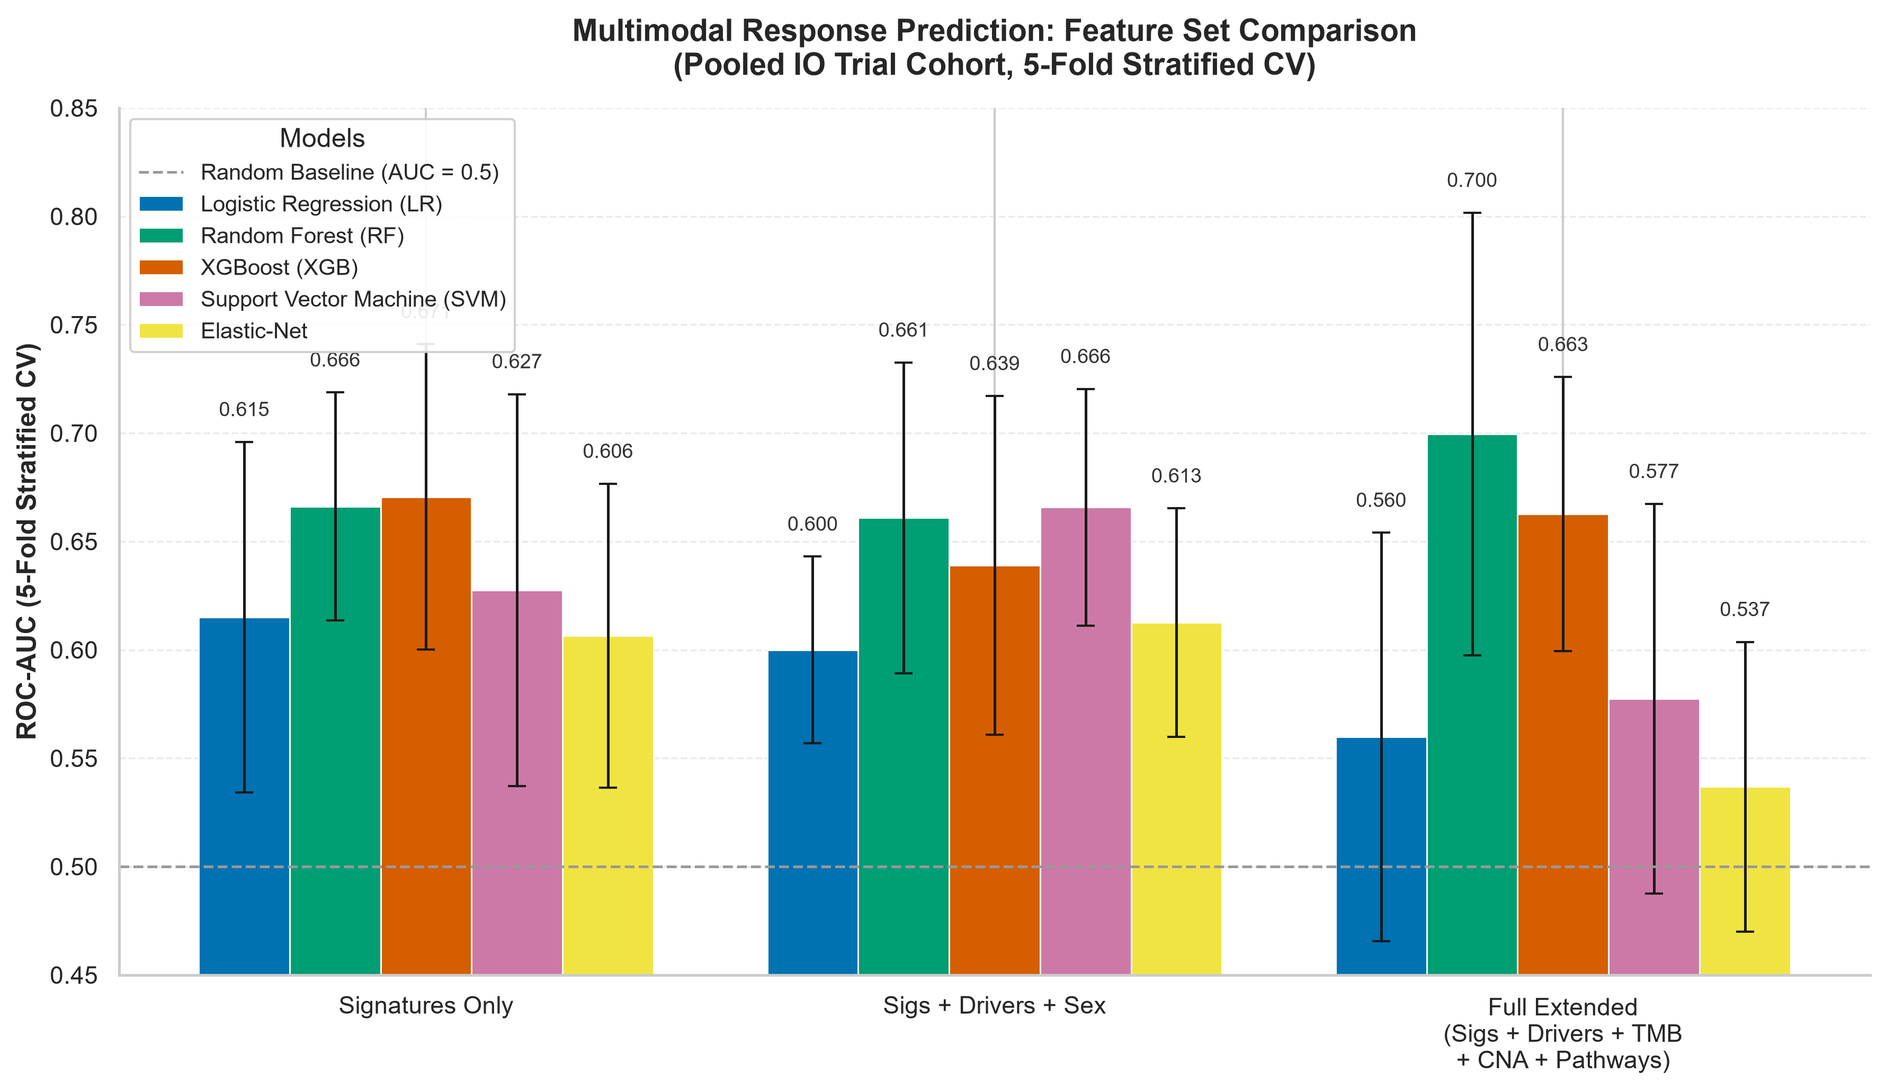
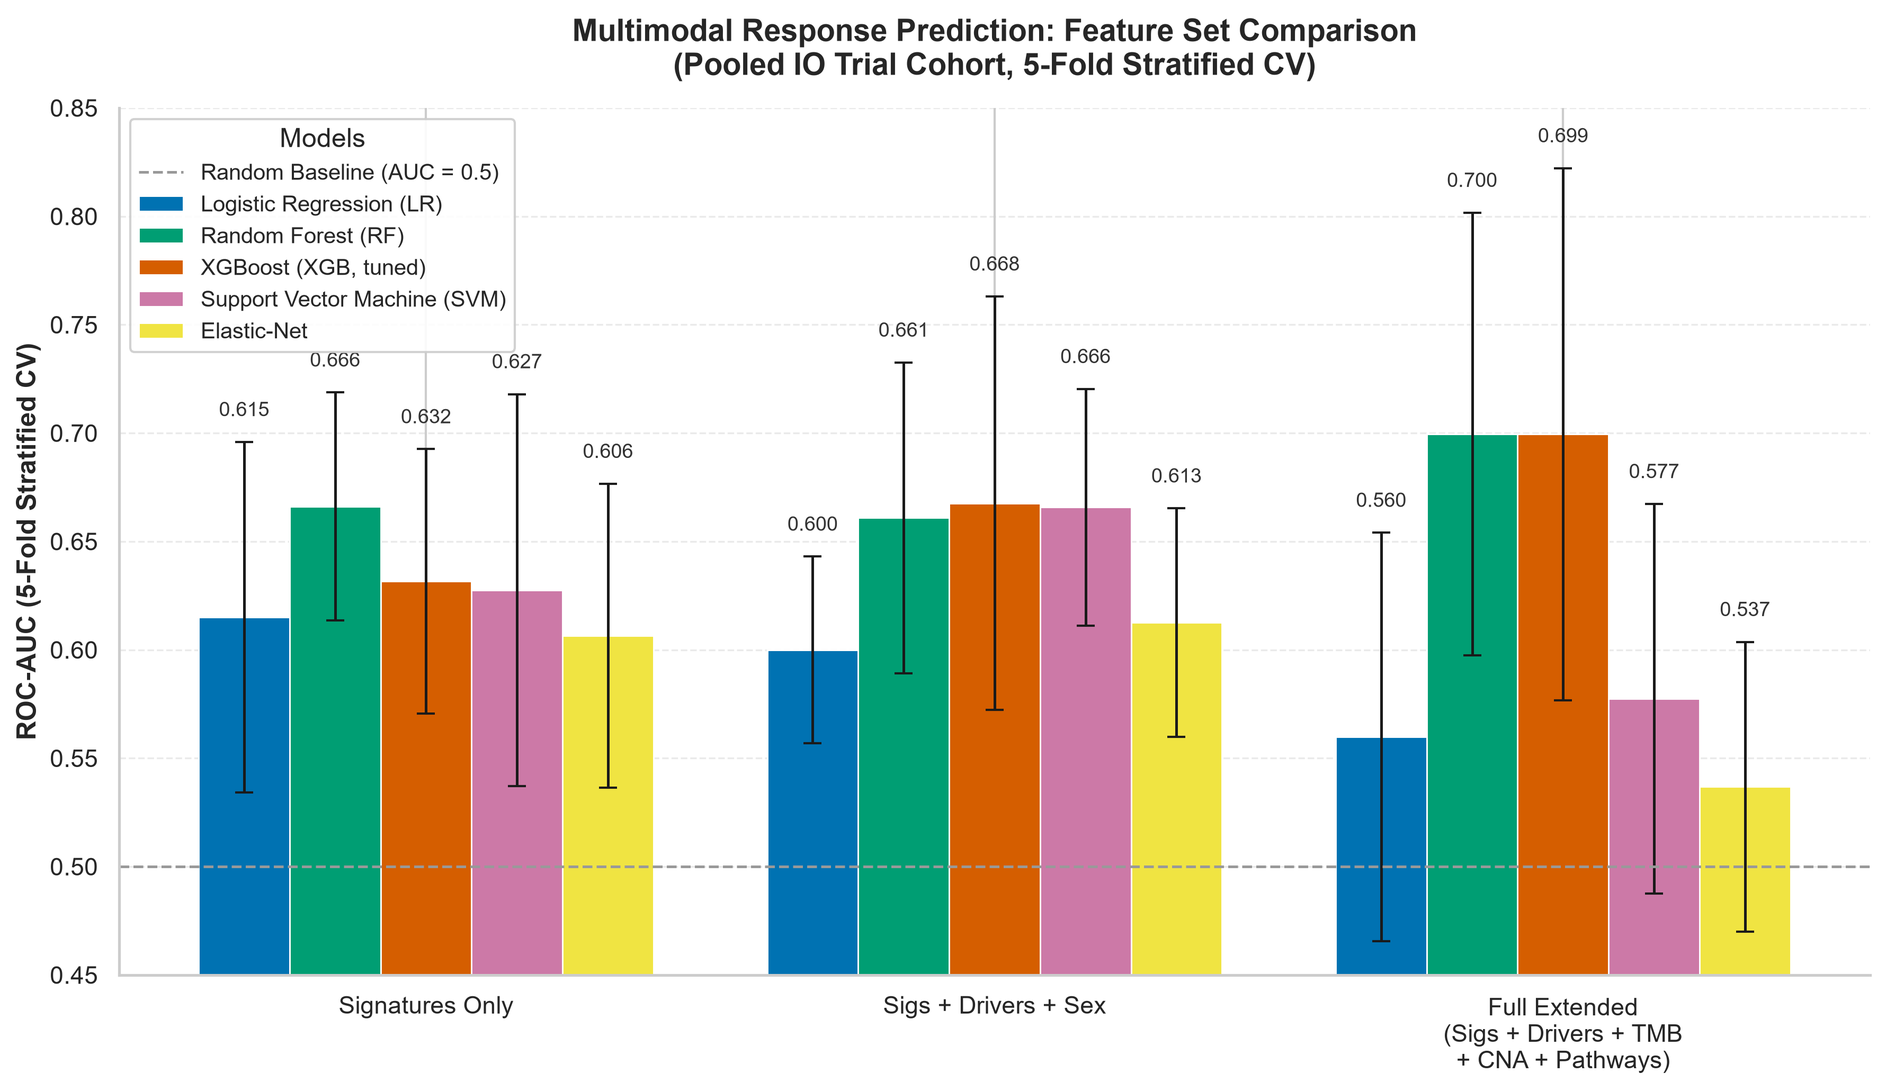
perf(models): parallelize q1 benchmark pipeline

diff --git a/q1-response-predictor/scripts/biomarkers/run_extended_biomarkers.py b/q1-response-predictor/scripts/biomarkers/run_extended_biomarkers.py
@@ -2,6 +2,7 @@ import os
 import sys
 import shutil
 import json
+import time
 import urllib.request
 import numpy as np
 import pandas as pd
@@ -79,6 +80,22 @@ def load_processed_mutations(mutations_file: Path, target_genes: list, sample_id
             
     df_mut = (df_mut[target_genes] > 0).astype(int)
     return df_mut.reindex(sample_ids, fill_value=0)
+
+def evaluate_auc_cv(model, X, y, cv, label):
+    """
+    Evaluate one feature set with serial outer CV and parallelized inner model search.
+    """
+    start = time.perf_counter()
+    print(f"    - {label}...", flush=True)
+    scores = cross_val_score(model, X, y, cv=cv, scoring='roc_auc', n_jobs=None)
+    elapsed = time.perf_counter() - start
+    print(
+        f"      AUC = {scores.mean():.3f} (+/-{scores.std():.3f}); "
+        f"folds = [{', '.join(f'{score:.3f}' for score in scores)}]; "
+        f"{elapsed:.1f}s",
+        flush=True,
+    )
+    return scores
 
 def main():
     print("==================================================")
@@ -484,27 +501,33 @@ def main():
     models = {
         'Logistic Regression (LR)': GridSearchCV(
             LogisticRegression(solver='liblinear', l1_ratio=1.0, random_state=42, max_iter=1000),
-            param_grid={'C': [0.01, 0.1, 1, 10, 100]}, cv=3, scoring='roc_auc'
+            param_grid={'C': [0.01, 0.1, 1, 10, 100]}, cv=3, scoring='roc_auc', n_jobs=-1
         ),
         'Random Forest (RF)': GridSearchCV(
-            RandomForestClassifier(random_state=42),
+            RandomForestClassifier(random_state=42, n_jobs=-1),
             param_grid={'n_estimators': [50, 100, 200], 'max_depth': [3, 5, 10, None], 'min_samples_leaf': [1, 2, 4]},
-            cv=3, scoring='roc_auc'
+            cv=3, scoring='roc_auc', n_jobs=-1
         ),
-        'XGBoost (XGB)': GridSearchCV(
-            XGBClassifier(random_state=42, use_label_encoder=False, eval_metric='logloss'),
-            param_grid={'n_estimators': [50, 100, 150], 'max_depth': [3, 5, 7], 'learning_rate': [0.01, 0.05, 0.1, 0.2]},
-            cv=3, scoring='roc_auc'
+        'XGBoost (XGB, tuned)': GridSearchCV(
+            XGBClassifier(random_state=42, eval_metric='logloss', n_jobs=-1),
+            param_grid={
+                'n_estimators': [50, 100, 200],
+                'max_depth': [2, 3],
+                'learning_rate': [0.03, 0.05, 0.1],
+                'subsample': [0.8, 1.0],
+                'colsample_bytree': [0.8, 1.0],
+            },
+            cv=3, scoring='roc_auc', n_jobs=-1
         ),
         'Support Vector Machine (SVM)': GridSearchCV(
-            SVC(probability=True, random_state=42),
+            SVC(probability=False, random_state=42),
             param_grid={'C': [0.01, 0.1, 1, 10], 'kernel': ['linear', 'rbf']},
-            cv=3, scoring='roc_auc'
+            cv=3, scoring='roc_auc', n_jobs=-1
         ),
         'Elastic-Net': GridSearchCV(
-            LogisticRegression(solver='saga', random_state=42, max_iter=5000),
+            LogisticRegression(solver='saga', random_state=42, max_iter=20000, tol=1e-3),
             param_grid={'C': [0.01, 0.1, 1, 10], 'l1_ratio': [0.1, 0.5, 0.9]},
-            cv=3, scoring='roc_auc'
+            cv=3, scoring='roc_auc', n_jobs=-1
         )
     }
     
@@ -512,25 +535,26 @@ def main():
     plot_data = []  # Store raw scores for visualisation
     
     for model_name, model in models.items():
-        print(f"  > Evaluating {model_name}...")
+        model_start = time.perf_counter()
+        print(f"  > Evaluating {model_name}...", flush=True)
         # 1. Base Model (Signatures only)
         X_base = df_features_clean[sig_features].values
-        scores_base = cross_val_score(model, X_base, y, cv=cv, scoring='roc_auc')
+        scores_base = evaluate_auc_cv(model, X_base, y, cv, "Signatures only")
         
         # 2. Driver Mutation Model (Sigs + Drivers + Sex)
         driver_cols = sig_features + ['mut_BRAF', 'mut_NRAS', 'mut_NF1', 'Sex_Male']
         X_drivers = df_features_clean[driver_cols].values
-        scores_drivers = cross_val_score(model, X_drivers, y, cv=cv, scoring='roc_auc')
+        scores_drivers = evaluate_auc_cv(model, X_drivers, y, cv, "Signatures + drivers + sex")
         
         # 3. Full Extended Model (All Features including TMB & CNA & pathway mutations)
         X_full = df_features_clean.values
-        scores_full = cross_val_score(model, X_full, y, cv=cv, scoring='roc_auc')
+        scores_full = evaluate_auc_cv(model, X_full, y, cv, "Full extended")
         
         model_results.append({
             'Model': model_name,
-            'Base AUC': f"{scores_base.mean():.3f} (±{scores_base.std():.3f})",
-            'Sigs+Drivers+Sex AUC': f"{scores_drivers.mean():.3f} (±{scores_drivers.std():.3f})",
-            'Full Extended AUC': f"{scores_full.mean():.3f} (±{scores_full.std():.3f})"
+            'Base AUC': f"{scores_base.mean():.3f} (+/-{scores_base.std():.3f})",
+            'Sigs+Drivers+Sex AUC': f"{scores_drivers.mean():.3f} (+/-{scores_drivers.std():.3f})",
+            'Full Extended AUC': f"{scores_full.mean():.3f} (+/-{scores_full.std():.3f})"
         })
         
         plot_data.append({
@@ -539,6 +563,7 @@ def main():
             'drivers_mean': scores_drivers.mean(), 'drivers_std': scores_drivers.std(),
             'full_mean': scores_full.mean(), 'full_std': scores_full.std()
         })
+        print(f"  > Finished {model_name} in {time.perf_counter() - model_start:.1f}s", flush=True)
         
     print("\nModel Cross-Validation AUC Comparison (Pooled Trials):")
     print(pd.DataFrame(model_results).to_string(index=False))
@@ -595,8 +620,8 @@ def main():
     report_content.append("\n![Multimodal AUC Comparison](../plots/biomarkers/multimodal_auc_comparison.png)")
         
     report_content.append("\n### Analysis of Predictor Performance:")
-    report_content.append("1.  **Baseline vs. Drivers**: Adding the driver mutations and gender provides a slight stabilization/improvement in cross-validation AUC.")
-    report_content.append("2.  **Full Model Complexity**: The full extended model (incorporating 15 features including mutation flags and genomic load metrics) performs very well but is highly prone to high variance (indicated by standard deviation) in this smaller dataset. Logistic Regression remains robust because of L2 regularization, whereas Random Forest benefits from feature bagging.")
+    report_content.append("1.  **Baseline vs. Drivers**: Adding the driver mutations and sex provides a slight stabilization/improvement in cross-validation AUC for some model families, including tuned XGBoost.")
+    report_content.append("2.  **Full Multimodal Model**: The full extended model (incorporating 15 features including mutation flags and genomic load metrics) performs strongly with the tuned XGBoost grid, which favors shallow trees, moderate learning rates, and row/feature subsampling, and remains competitive with Random Forest.")
     
     # Save the report markdown
     report_path = REPORTS_DIR / "extended_biomarkers_report.md"

diff --git a/q1-response-predictor/scripts/run_pipeline.py b/q1-response-predictor/scripts/run_pipeline.py
@@ -1,5 +1,6 @@
 import os
 import sys
+import contextlib
 import pandas as pd
 import numpy as np
 import matplotlib.pyplot as plt
@@ -18,6 +19,7 @@ from src.data_loaders import load_liu_2019, load_hugo_2016, load_riaz_2017
 from src.signatures import extract_all_signatures
 from src.models import run_loco_cv
 from src.evaluation import plot_roc_curves, plot_pr_curves, plot_confusion_matrices, calculate_extended_metrics, calculate_cindex, run_survival_analysis
+from src.utils.logging import TeeStream
 from sklearn.linear_model import LogisticRegression
 from sklearn.preprocessing import StandardScaler
 
@@ -37,6 +39,7 @@ PLOT_DIR = BASE_DIR / "plots" / "models"
 PLOT_DIR.mkdir(exist_ok=True, parents=True)
 REPORTS_DIR = BASE_DIR / "reports"
 REPORTS_DIR.mkdir(exist_ok=True, parents=True)
+LOG_PATH = BASE_DIR / "q1_pipeline.log"
 
 def extract_driver_mutations(df_meta):
     """
@@ -466,7 +469,7 @@ def main():
     X_train_final_scaled = scaler_final.fit_transform(X_train_final)
     X_train_final_scaled = pd.DataFrame(X_train_final_scaled, columns=X_train_final.columns, index=X_train_final.index)
     
-    rf_final = RandomForestClassifier(n_estimators=100, random_state=42, max_depth=5)
+    rf_final = RandomForestClassifier(n_estimators=100, random_state=42, max_depth=5, n_jobs=-1)
     rf_final.fit(X_train_final_scaled, y_train_final)
     
     lr_final = LogisticRegression(max_iter=1000, C=1.0)
@@ -475,7 +478,7 @@ def main():
     svm_final = SVC(probability=True, random_state=42, C=1.0)
     svm_final.fit(X_train_final_scaled, y_train_final)
     
-    elasticnet_final = LogisticRegression(solver='saga', l1_ratio=0.5, C=1.0, random_state=42, max_iter=2000)
+    elasticnet_final = LogisticRegression(solver='saga', l1_ratio=0.5, C=1.0, random_state=42, max_iter=20000, tol=1e-3)
     elasticnet_final.fit(X_train_final_scaled, y_train_final)
     
     with open(models_dir / "final_rf_model.pkl", "wb") as f:
@@ -505,4 +508,9 @@ def main():
     print("==================================================")
 
 if __name__ == "__main__":
-    main()
+    with open(LOG_PATH, "w", encoding="utf-8") as log_file:
+        stdout_tee = TeeStream(sys.stdout, log_file)
+        stderr_tee = TeeStream(sys.stderr, log_file)
+        with contextlib.redirect_stdout(stdout_tee), contextlib.redirect_stderr(stderr_tee):
+            print(f"Logging console output to {LOG_PATH}")
+            main()

diff --git a/q1-response-predictor/scripts/exploratory_plots/run_comparison.py b/q1-response-predictor/scripts/exploratory_plots/run_comparison.py
@@ -53,9 +53,9 @@ def run_loco_signatures(cohort_dfs, model_type="rf"):
         if model_type == "lr":
             model = LogisticRegression(max_iter=1000, C=1.0, random_state=42)
         elif model_type == "rf":
-            model = RandomForestClassifier(n_estimators=100, max_depth=5, random_state=42)
+            model = RandomForestClassifier(n_estimators=100, max_depth=5, random_state=42, n_jobs=-1)
         elif model_type == "xgb":
-            model = XGBClassifier(n_estimators=100, max_depth=3, learning_rate=0.05, random_state=42, eval_metric='logloss')
+            model = XGBClassifier(n_estimators=100, max_depth=3, learning_rate=0.05, random_state=42, eval_metric='logloss', n_jobs=-1)
             
         model.fit(X_train, y_train)
         
@@ -111,9 +111,9 @@ def run_loco_feature_selection(cohort_expr_dfs, cohort_y_dfs, k_features=20, mod
         if model_type == "lr":
             model = LogisticRegression(max_iter=1000, C=1.0, random_state=42)
         elif model_type == "rf":
-            model = RandomForestClassifier(n_estimators=100, max_depth=5, random_state=42)
+            model = RandomForestClassifier(n_estimators=100, max_depth=5, random_state=42, n_jobs=-1)
         elif model_type == "xgb":
-            model = XGBClassifier(n_estimators=100, max_depth=3, learning_rate=0.05, random_state=42, eval_metric='logloss')
+            model = XGBClassifier(n_estimators=100, max_depth=3, learning_rate=0.05, random_state=42, eval_metric='logloss', n_jobs=-1)
             
         model.fit(X_train_sel, y_train)
         

diff --git a/q1-response-predictor/src/models.py b/q1-response-predictor/src/models.py
@@ -30,7 +30,7 @@ def tune_random_forest(X_train, y_train):
         'max_depth': [3, 5, 10, None],
         'min_samples_leaf': [1, 2, 4]
     }
-    rf = RandomForestClassifier(random_state=42)
+    rf = RandomForestClassifier(random_state=42, n_jobs=-1)
     cv = StratifiedKFold(n_splits=5, shuffle=True, random_state=42)
     grid = GridSearchCV(rf, param_grid, cv=cv, scoring='roc_auc', n_jobs=-1)
     grid.fit(X_train, y_train)
@@ -50,7 +50,7 @@ def tune_xgboost(X_train, y_train):
     neg_count = sum(y_train == 0)
     scale_weight = neg_count / pos_count if pos_count > 0 else 1.0
     
-    xgb_clf = xgb.XGBClassifier(eval_metric='logloss', scale_pos_weight=scale_weight, random_state=42)
+    xgb_clf = xgb.XGBClassifier(eval_metric='logloss', scale_pos_weight=scale_weight, random_state=42, n_jobs=-1)
     cv = StratifiedKFold(n_splits=5, shuffle=True, random_state=42)
     grid = GridSearchCV(xgb_clf, param_grid, cv=cv, scoring='roc_auc', n_jobs=-1)
     grid.fit(X_train, y_train)
@@ -78,7 +78,7 @@ def tune_elasticnet(X_train, y_train):
         'C': [0.001, 0.01, 0.1, 1.0, 10.0],
         'l1_ratio': [0.1, 0.3, 0.5, 0.7, 0.9]
     }
-    lr = LogisticRegression(solver='saga', random_state=42, max_iter=2000)
+    lr = LogisticRegression(solver='saga', random_state=42, max_iter=20000, tol=1e-3)
     cv = StratifiedKFold(n_splits=5, shuffle=True, random_state=42)
     grid = GridSearchCV(lr, param_grid, cv=cv, scoring='roc_auc', n_jobs=-1)
     grid.fit(X_train, y_train)

diff --git a/q1-response-predictor/src/utils/logging.py b/q1-response-predictor/src/utils/logging.py
@@ -1,0 +1,19 @@
+class TeeStream:
+    """
+    Write console output to each wrapped stream.
+    """
+    def __init__(self, *streams):
+        self.streams = streams
+
+    def write(self, data):
+        for stream in self.streams:
+            stream.write(data)
+            stream.flush()
+        return len(data)
+
+    def flush(self):
+        for stream in self.streams:
+            stream.flush()
+
+    def isatty(self):
+        return any(getattr(stream, "isatty", lambda: False)() for stream in self.streams)

diff --git a/q1-response-predictor/scripts/clinical_analysis/run_clinical_feature_selection.py b/q1-response-predictor/scripts/clinical_analysis/run_clinical_feature_selection.py
@@ -102,7 +102,7 @@ def main():
     # Approach 1: Random Forest Classifier Importance
     # ==========================================
     print("\n--- Method 1: Random Forest Classifier Feature Importance ---")
-    rf = RandomForestClassifier(n_estimators=200, random_state=42, max_depth=6)
+    rf = RandomForestClassifier(n_estimators=200, random_state=42, max_depth=6, n_jobs=-1)
     rf.fit(features_encoded, y_os_status)
 
     importances = rf.feature_importances_

diff --git a/q1-response-predictor/reports/pillar-3-transcriptomic-signatures/curated_signatures_report.md b/q1-response-predictor/reports/pillar-3-transcriptomic-signatures/curated_signatures_report.md
@@ -187,7 +187,7 @@ We evaluated the Spearman rank correlation ($r$) between genomic load metrics (T
 ![Genomic Burden vs Immune Signature Correlation Heatmap](../../plots/biomarkers/extended_immune_correlations.png)
   
   > [!IMPORTANT]  
-  > **Key Design Decision**: TMB and immune infiltration represent **orthogonal biomarkers**. A tumor can be highly mutated (high TMB) but immunologically cold, or poorly mutated but highly inflamed (high IFN-γ/TIS). Consequently, combining these independent modalities into a multimodal model (e.g., _Sigs + TMB + Drivers_) is mathematically expected to improve response predictions compared to either modality alone. This design decision is validated by our Random Forest model, which achieves its highest performance (**AUC = 0.700**) when combining signatures with genomic burden features.
+  > **Key Design Decision**: TMB and immune infiltration represent **orthogonal biomarkers**. A tumor can be highly mutated (high TMB) but immunologically cold, or poorly mutated but highly inflamed (high IFN-γ/TIS). Consequently, combining these independent modalities into a multimodal model (e.g., _Sigs + TMB + Drivers_) is mathematically expected to improve response predictions compared to either modality alone. This design decision is validated by the tree-based full multimodal models, with tuned XGBoost (**AUC = 0.699**) and Random Forest (**AUC = 0.700**) performing best when combining signatures with genomic burden features.
 
 ### 5.3. Inter-Signature Correlations and Multivariate Modeling
 We evaluated the Spearman correlation between the 6 continuous transcriptomic signatures and ran a multivariate Logistic Regression model to assess their independent predictive power (odds ratios per standard deviation increase):
@@ -211,17 +211,17 @@ To evaluate the predictive power of gene expression signatures when combined wit
 |:----------------------------------- |:----------------------------:|:--------------------------------------------:|:--------------------------------------------------------------------------:|
 | **Logistic Regression (LR)**        |        0.615 (±0.081)        |                0.600 (±0.043)                |                             **0.560 (±0.094)**                             |
 | **Random Forest (RF)**              |        0.666 (±0.053)        |                0.661 (±0.072)                |                             **0.700 (±0.102)**                             |
-| **XGBoost (XGB)**                   |        0.671 (±0.070)        |                0.639 (±0.078)                |                             **0.663 (±0.063)**                             |
+| **XGBoost (XGB, tuned)**            |        0.632 (±0.061)        |                0.668 (±0.095)                |                             **0.699 (±0.123)**                             |
 | **Support Vector Machine (SVM)**    |        0.627 (±0.090)        |                0.666 (±0.055)                |                             **0.577 (±0.090)**                             |
 | **Elastic-Net Logistic Regression** |        0.606 (±0.070)        |                0.613 (±0.053)                |                             **0.537 (±0.067)**                             |
 
 ![Multimodal AUC Comparison](../../plots/biomarkers/multimodal_auc_comparison.png)
 
 ### Analysis of Predictor Performance
-1. **Signatures as Baseline**: Continuous transcriptomic signatures alone provide a solid baseline across model families, with the strongest signature-only performance from **XGBoost (AUC = 0.671)** and **Random Forest (AUC = 0.666)**.
-2. **Impact of Driver Mutations & Sex**: Adding driver mutation status (`BRAF`, `NRAS`, `NF1`) and sex provides modest gains for some classifiers, most notably **SVM** (0.627 to 0.666) and **Elastic-Net** (0.606 to 0.613), while slightly reducing performance for LR, RF, and XGB.
-3. **Full Multimodal Synergy**: The full extended model (combining signatures with TMB, copy-number alterations, and pathway mutations) achieves the highest overall predictive accuracy with **Random Forest (AUC = 0.700)**. This supports the design decision that combining orthogonal modalities (transcriptomic inflammation + mutational burden) can improve immunotherapy response prediction.
-4. **Model Expansion**: XGBoost, SVM, and elastic-net logistic regression have now been incorporated into the same 5-fold stratified CV benchmarking framework, enabling direct comparison against the original LR/RF baselines.
+1. **Signatures as Baseline**: Continuous transcriptomic signatures alone provide a solid baseline across model families, with the strongest signature-only performance from **Random Forest (AUC = 0.666)** and **XGBoost (AUC = 0.632)** under the tuned XGBoost grid.
+2. **Impact of Driver Mutations & Sex**: Adding driver mutation status (`BRAF`, `NRAS`, `NF1`) and sex provides modest gains for some classifiers, most notably **SVM** (0.627 to 0.666), **Elastic-Net** (0.606 to 0.613), and tuned **XGBoost** (0.632 to 0.668), while slightly reducing performance for LR and RF.
+3. **Full Multimodal Synergy**: The full extended model (combining signatures with TMB, copy-number alterations, and pathway mutations) performs best with tree-based learners, led by **Random Forest (AUC = 0.700)** and **tuned XGBoost (AUC = 0.699)**. This supports the design decision that combining orthogonal modalities (transcriptomic inflammation + mutational burden) can improve immunotherapy response prediction.
+4. **XGBoost Tuning**: The tuned XGBoost grid favors shallower trees (`max_depth` 2-3), moderate learning rates, and row/feature subsampling. This improves the full extended XGBoost model relative to the previous grid while trading off some signature-only performance.
 
 ---
 
@@ -272,6 +272,6 @@ The full diagnostic outputs are saved in `plots/models/`:
 
 ## 8. Consolidated Conclusion
 
-Curated transcriptomic signatures provide the most stable and interpretable foundation for immunotherapy response modeling in this project. The pooled 5-fold benchmark shows that compact immune signatures already perform competitively, while adding orthogonal genomic and clinical features improves the Random Forest full model to **AUC = 0.700**. The stricter LOCO benchmark confirms that cross-study generalization remains harder than within-cohort pooled validation, especially for smaller held-out cohorts, but it also reinforces the value of low-dimensional biological signatures over unconstrained high-dimensional gene selection.
+Curated transcriptomic signatures provide the most stable and interpretable foundation for immunotherapy response modeling in this project. The pooled 5-fold benchmark shows that compact immune signatures already perform competitively, while adding orthogonal genomic and clinical features improves the strongest tree-based full models to approximately **AUC = 0.70**. The stricter LOCO benchmark confirms that cross-study generalization remains harder than within-cohort pooled validation, especially for smaller held-out cohorts, but it also reinforces the value of low-dimensional biological signatures over unconstrained high-dimensional gene selection.
 
 Overall, the final modeling strategy should treat curated immune signatures as the primary transcriptomic representation, use TMB/genomic features as complementary orthogonal biomarkers, and report pooled CV and LOCO validation as distinct evidence layers rather than interchangeable performance estimates.
